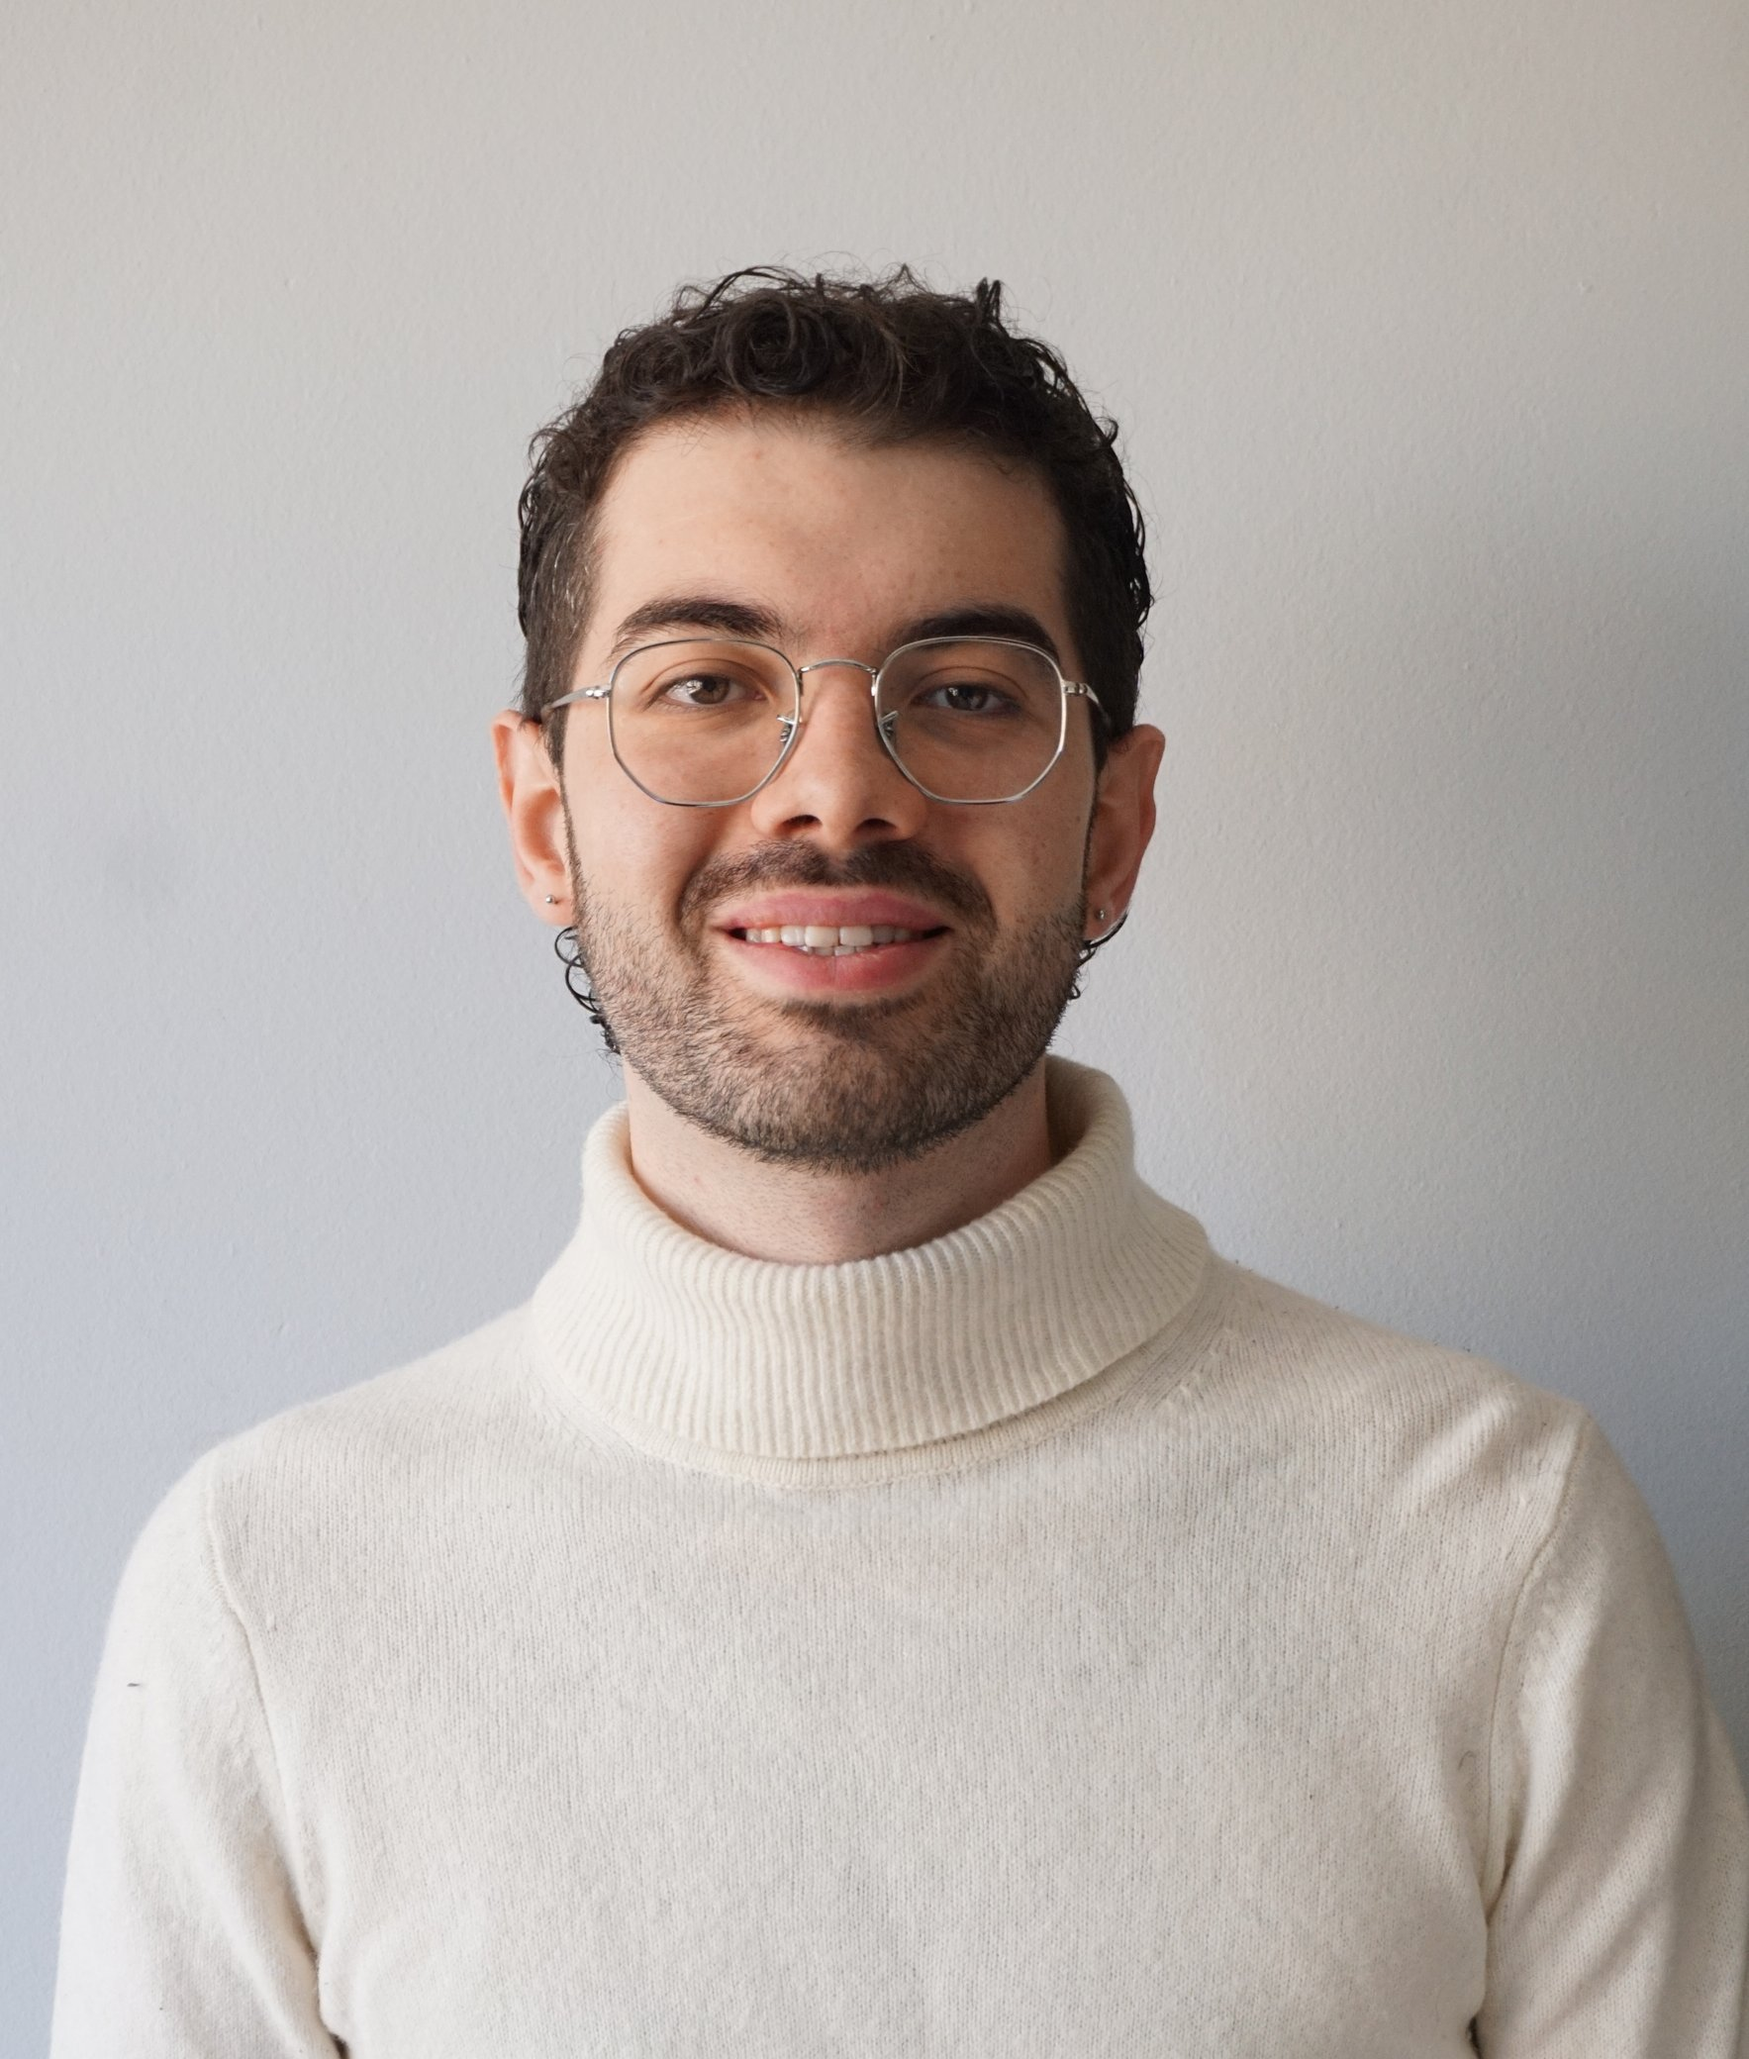
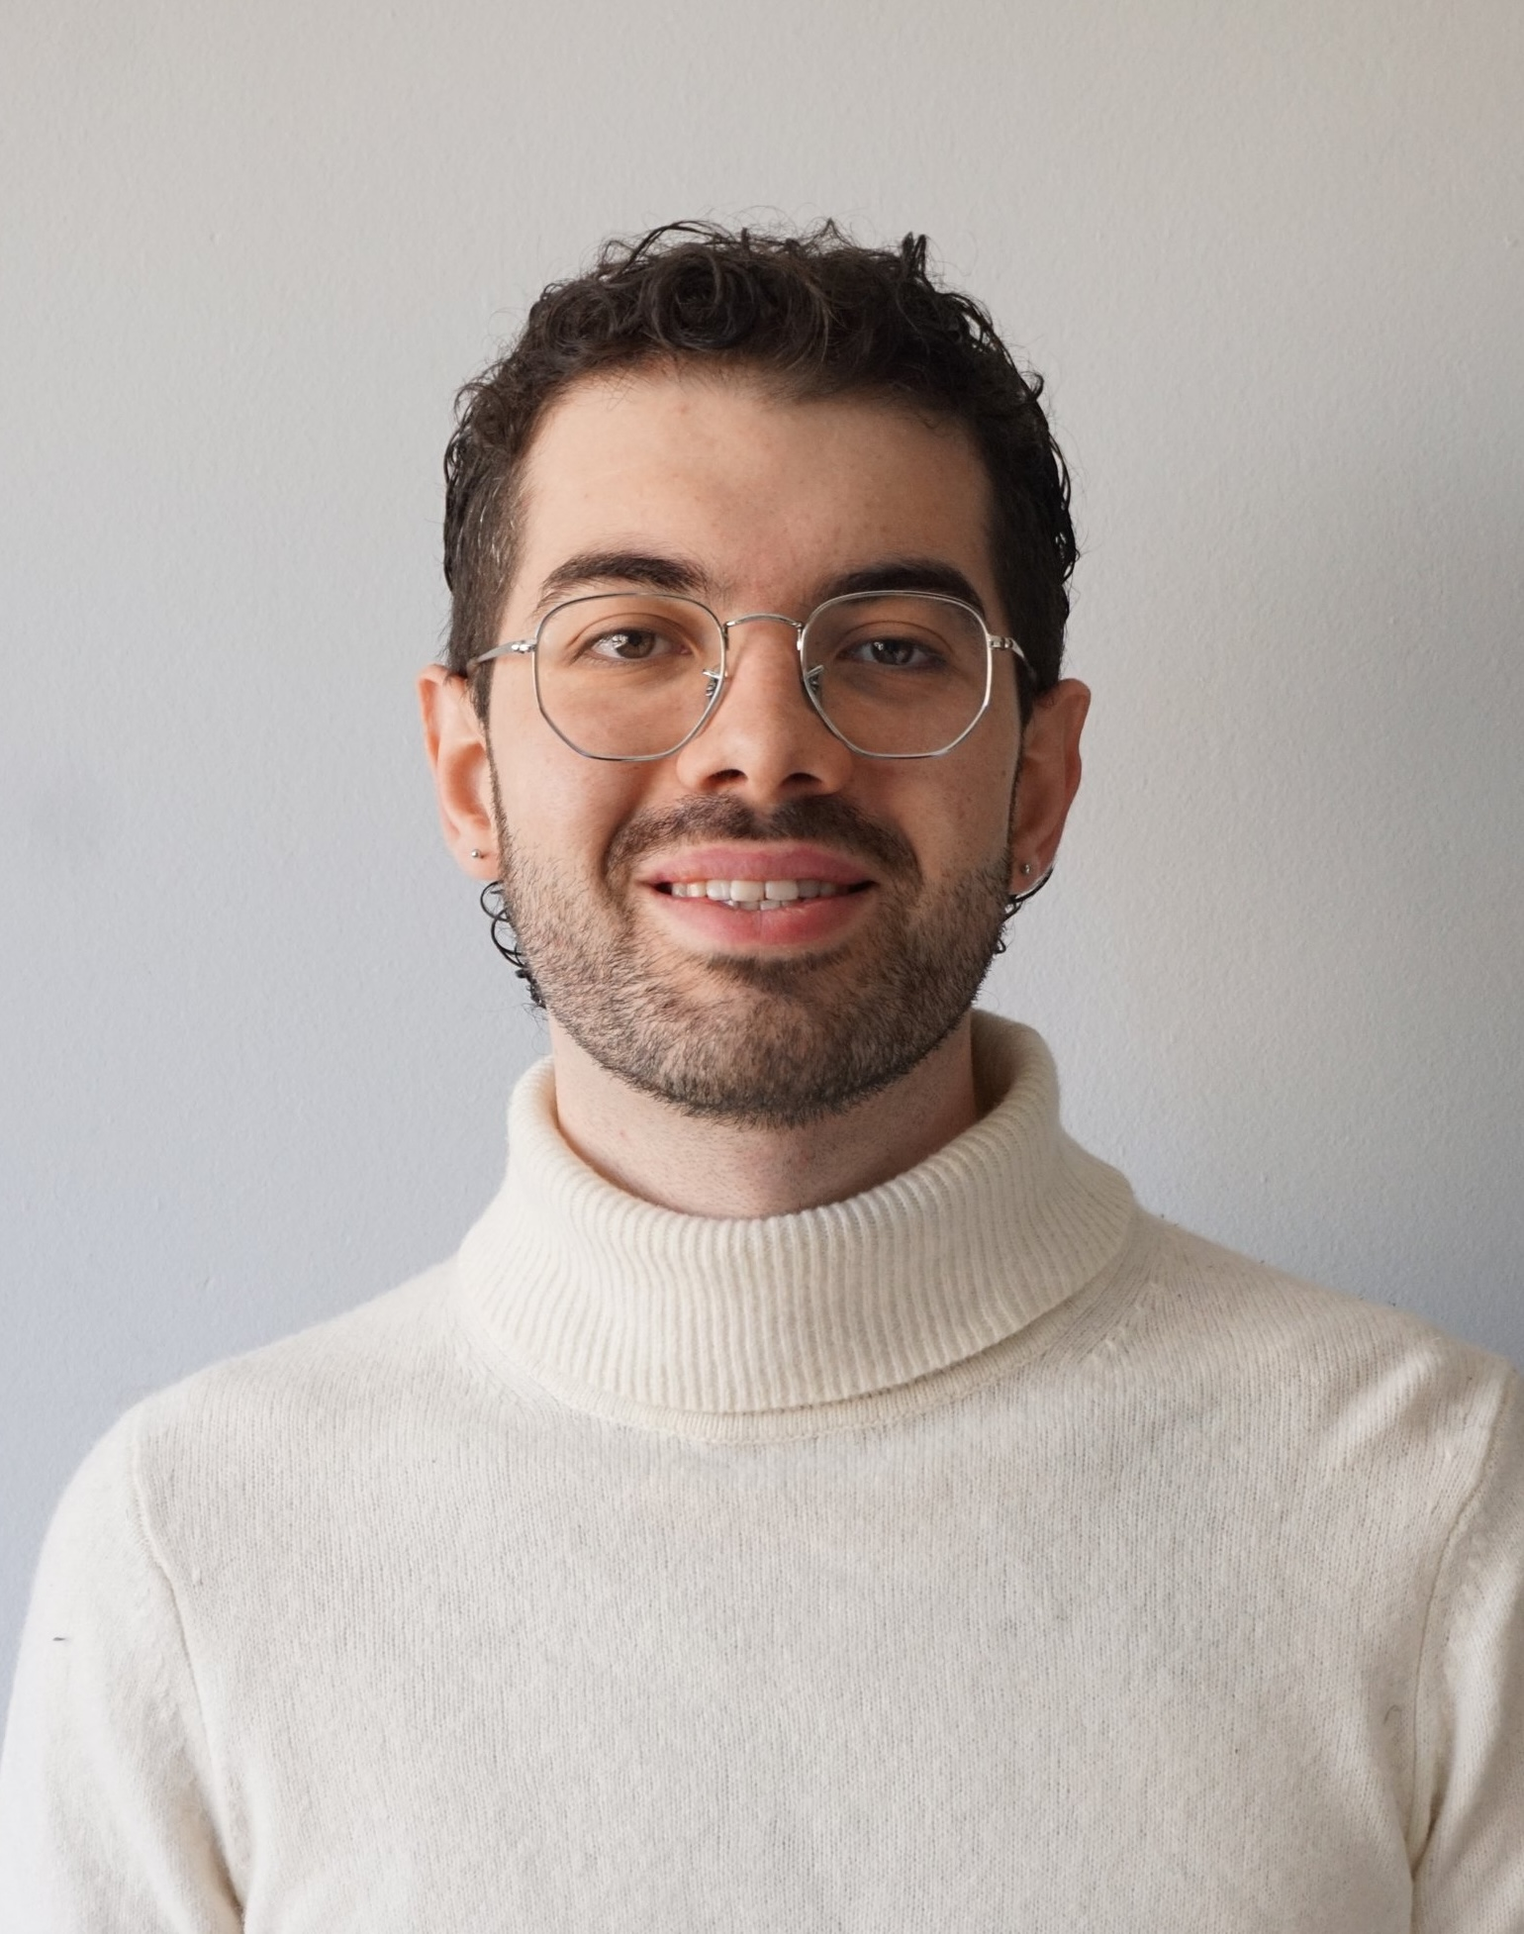
updated photo

diff --git a/index.html b/index.html
@@ -455,7 +455,7 @@
                         </a>
                         <a
                             class="pub"
-                            href="https://www.euractiv.com/opinion/ai-literacy-is-not-a-luxury-but-brussels-is-failing-to-see-the-danger/"
+                            href="https://www.rapporteur.com/opinion/ai-literacy-is-not-a-luxury-but-brussels-is-failing-to-see-the-danger/"
                             target="_blank"
                             rel="noopener"
                         >
@@ -464,7 +464,7 @@
                                 failing to see the danger</span
                             >
                             <span class="pub-meta"
-                                >Opinion · Euractiv · March 2026</span
+                                >Opinion · Rapporteur · March 2026</span
                             >
                         </a>
                         <a
